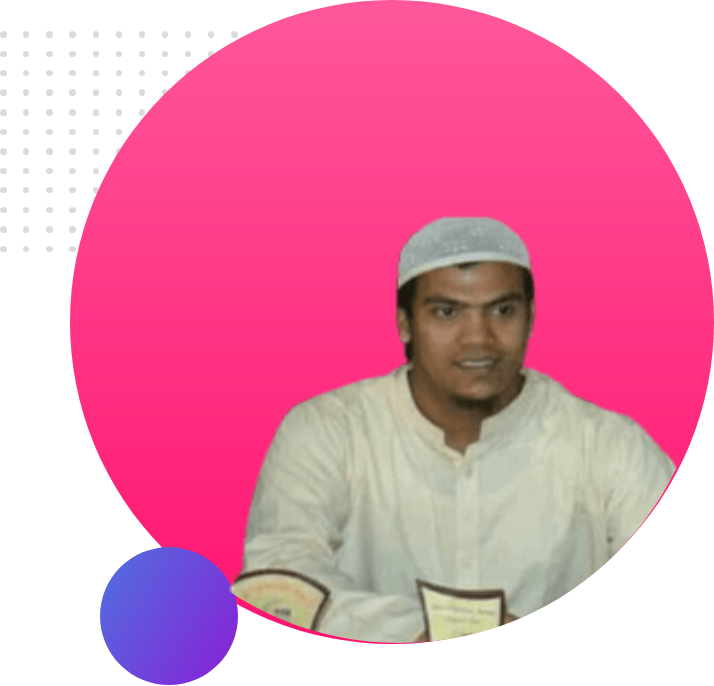
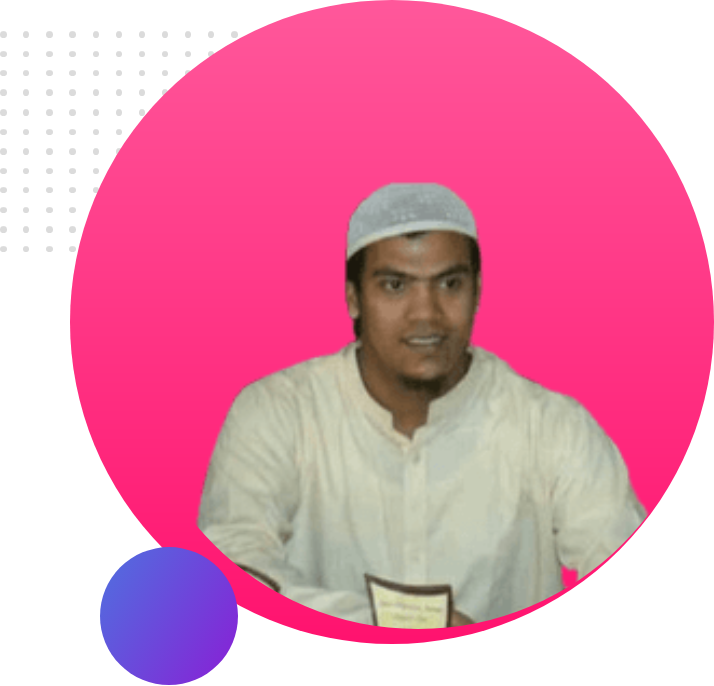
header part send

Changed region(s): [[0.2773, 0.2449, 0.9552, 0.949]]

diff --git a/index.html b/index.html
@@ -6,10 +6,33 @@
     <meta http-equiv="X-UA-Compatible" content="IE=edge">
     <meta name="viewport" content="width=device-width, initial-scale=1.0">
     <title>Professional Portfolio</title>
+    <link rel="stylesheet" href="style.css">
+    <link rel="preconnect" href="https://fonts.googleapis.com">
+    <link rel="preconnect" href="https://fonts.gstatic.com" crossorigin>
+    <link href="https://fonts.googleapis.com/css2?family=Poppins&display=swap" rel="stylesheet">
 </head>
 
 <body>
-
+    <section id="header">
+        <div class="header-part">
+            <h1>Welcome to</h1>
+            <h1><span class="text-color">Bashir Alam</span> World!</h1>
+            <h2>Full Stack Web Development with JavaScript</h2>
+            <p>Lorem ipsum dolor sit amet consectetur adipisicing elit. Earum accusantium non, tenetur nihil quo
+                ducimus.
+                Eligendi doloremque neque laudantium porro delectus beatae aliquam molestias, alias placeat fugit quas
+                ducimus,
+                architecto voluptatibus quae hic. Ullam ad debitis perspiciatis cumque tempora tempore maxime
+                voluptatibus harum
+                necessitatibus doloremque nemo blanditiis nihil velit ipsam consectetur, in totam reiciendis quis vero
+                eum
+                eligendi vel delectus autem ipsa. Iusto officia soluta eligendi vitae fugit inventore veritatis.</p>
+            <a class="link-color" href="https://linkedin.com">Hire Me</a>
+        </div>
+        <div class="header-part">
+            <img src="images/header-bg.png" alt="Header Photo">
+        </div>
+    </section>
 </body>
 
 </html>

diff --git a/style.css b/style.css
@@ -1,0 +1,29 @@
+body{
+    font-family: 'Poppins', sans-serif;
+    margin: 0;
+}
+
+#header{
+    display: flex;
+    background-image: url(images/top-banner.png);
+    background-repeat: no-repeat;
+}
+.header-part{
+    width:50%;
+    padding-left: 5%;
+}
+.text-color{
+    color:orange;
+}
+.link-color{
+    padding: 10px 40px;
+    text-decoration: none;
+    background-image: linear-gradient(red,yellow);
+    border-radius: 10px;
+}
+h1{
+    font-size: 50px;
+}
+.header-part img{
+    width: 100%;
+}
